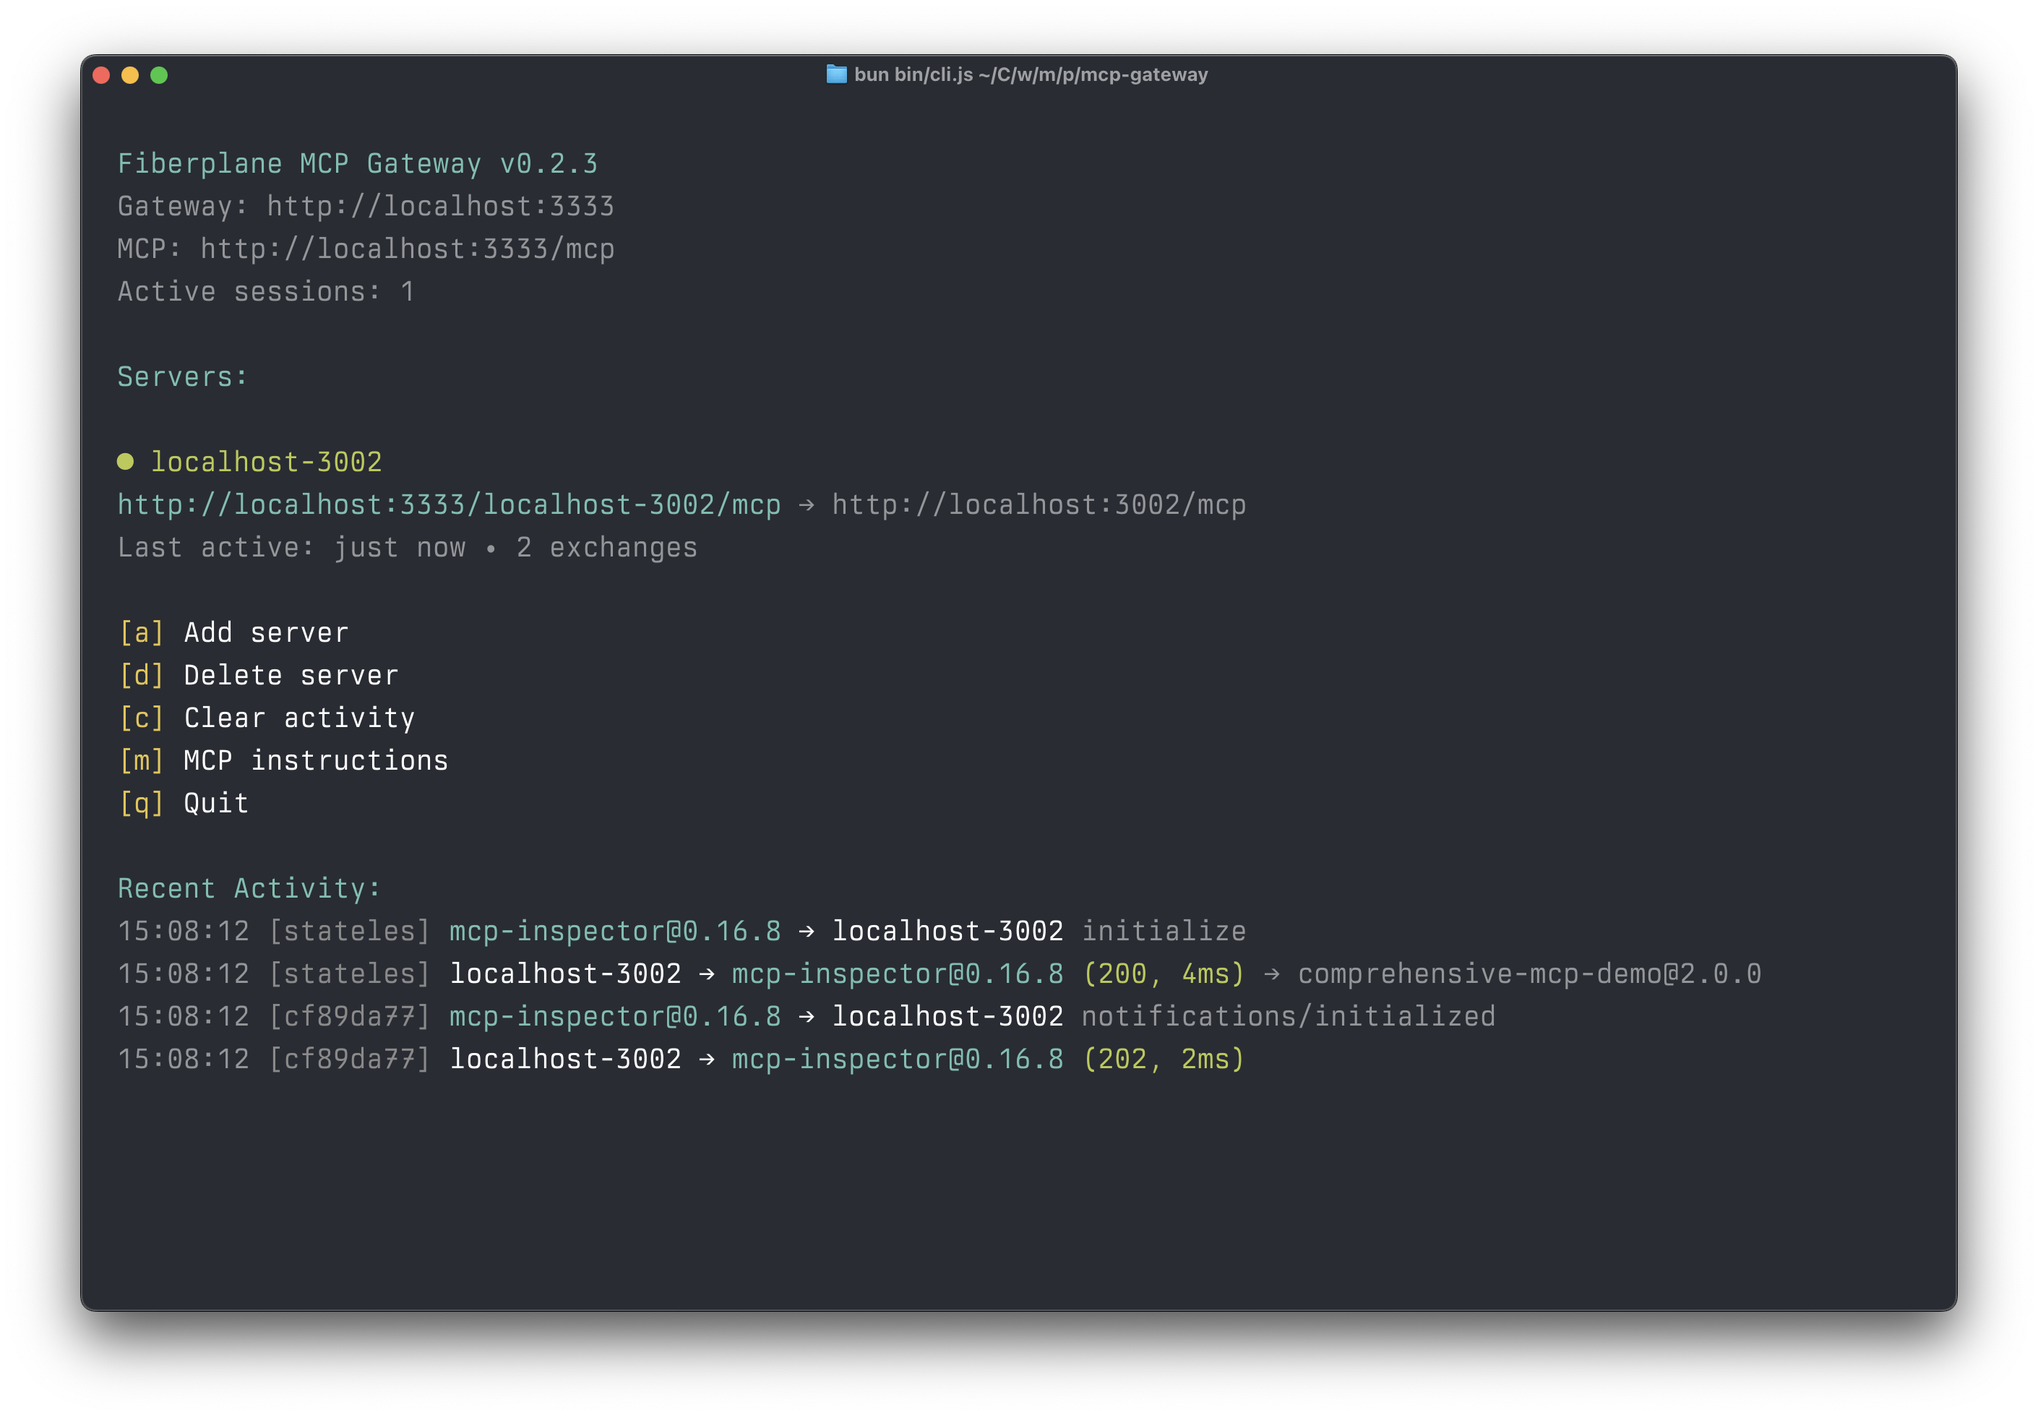
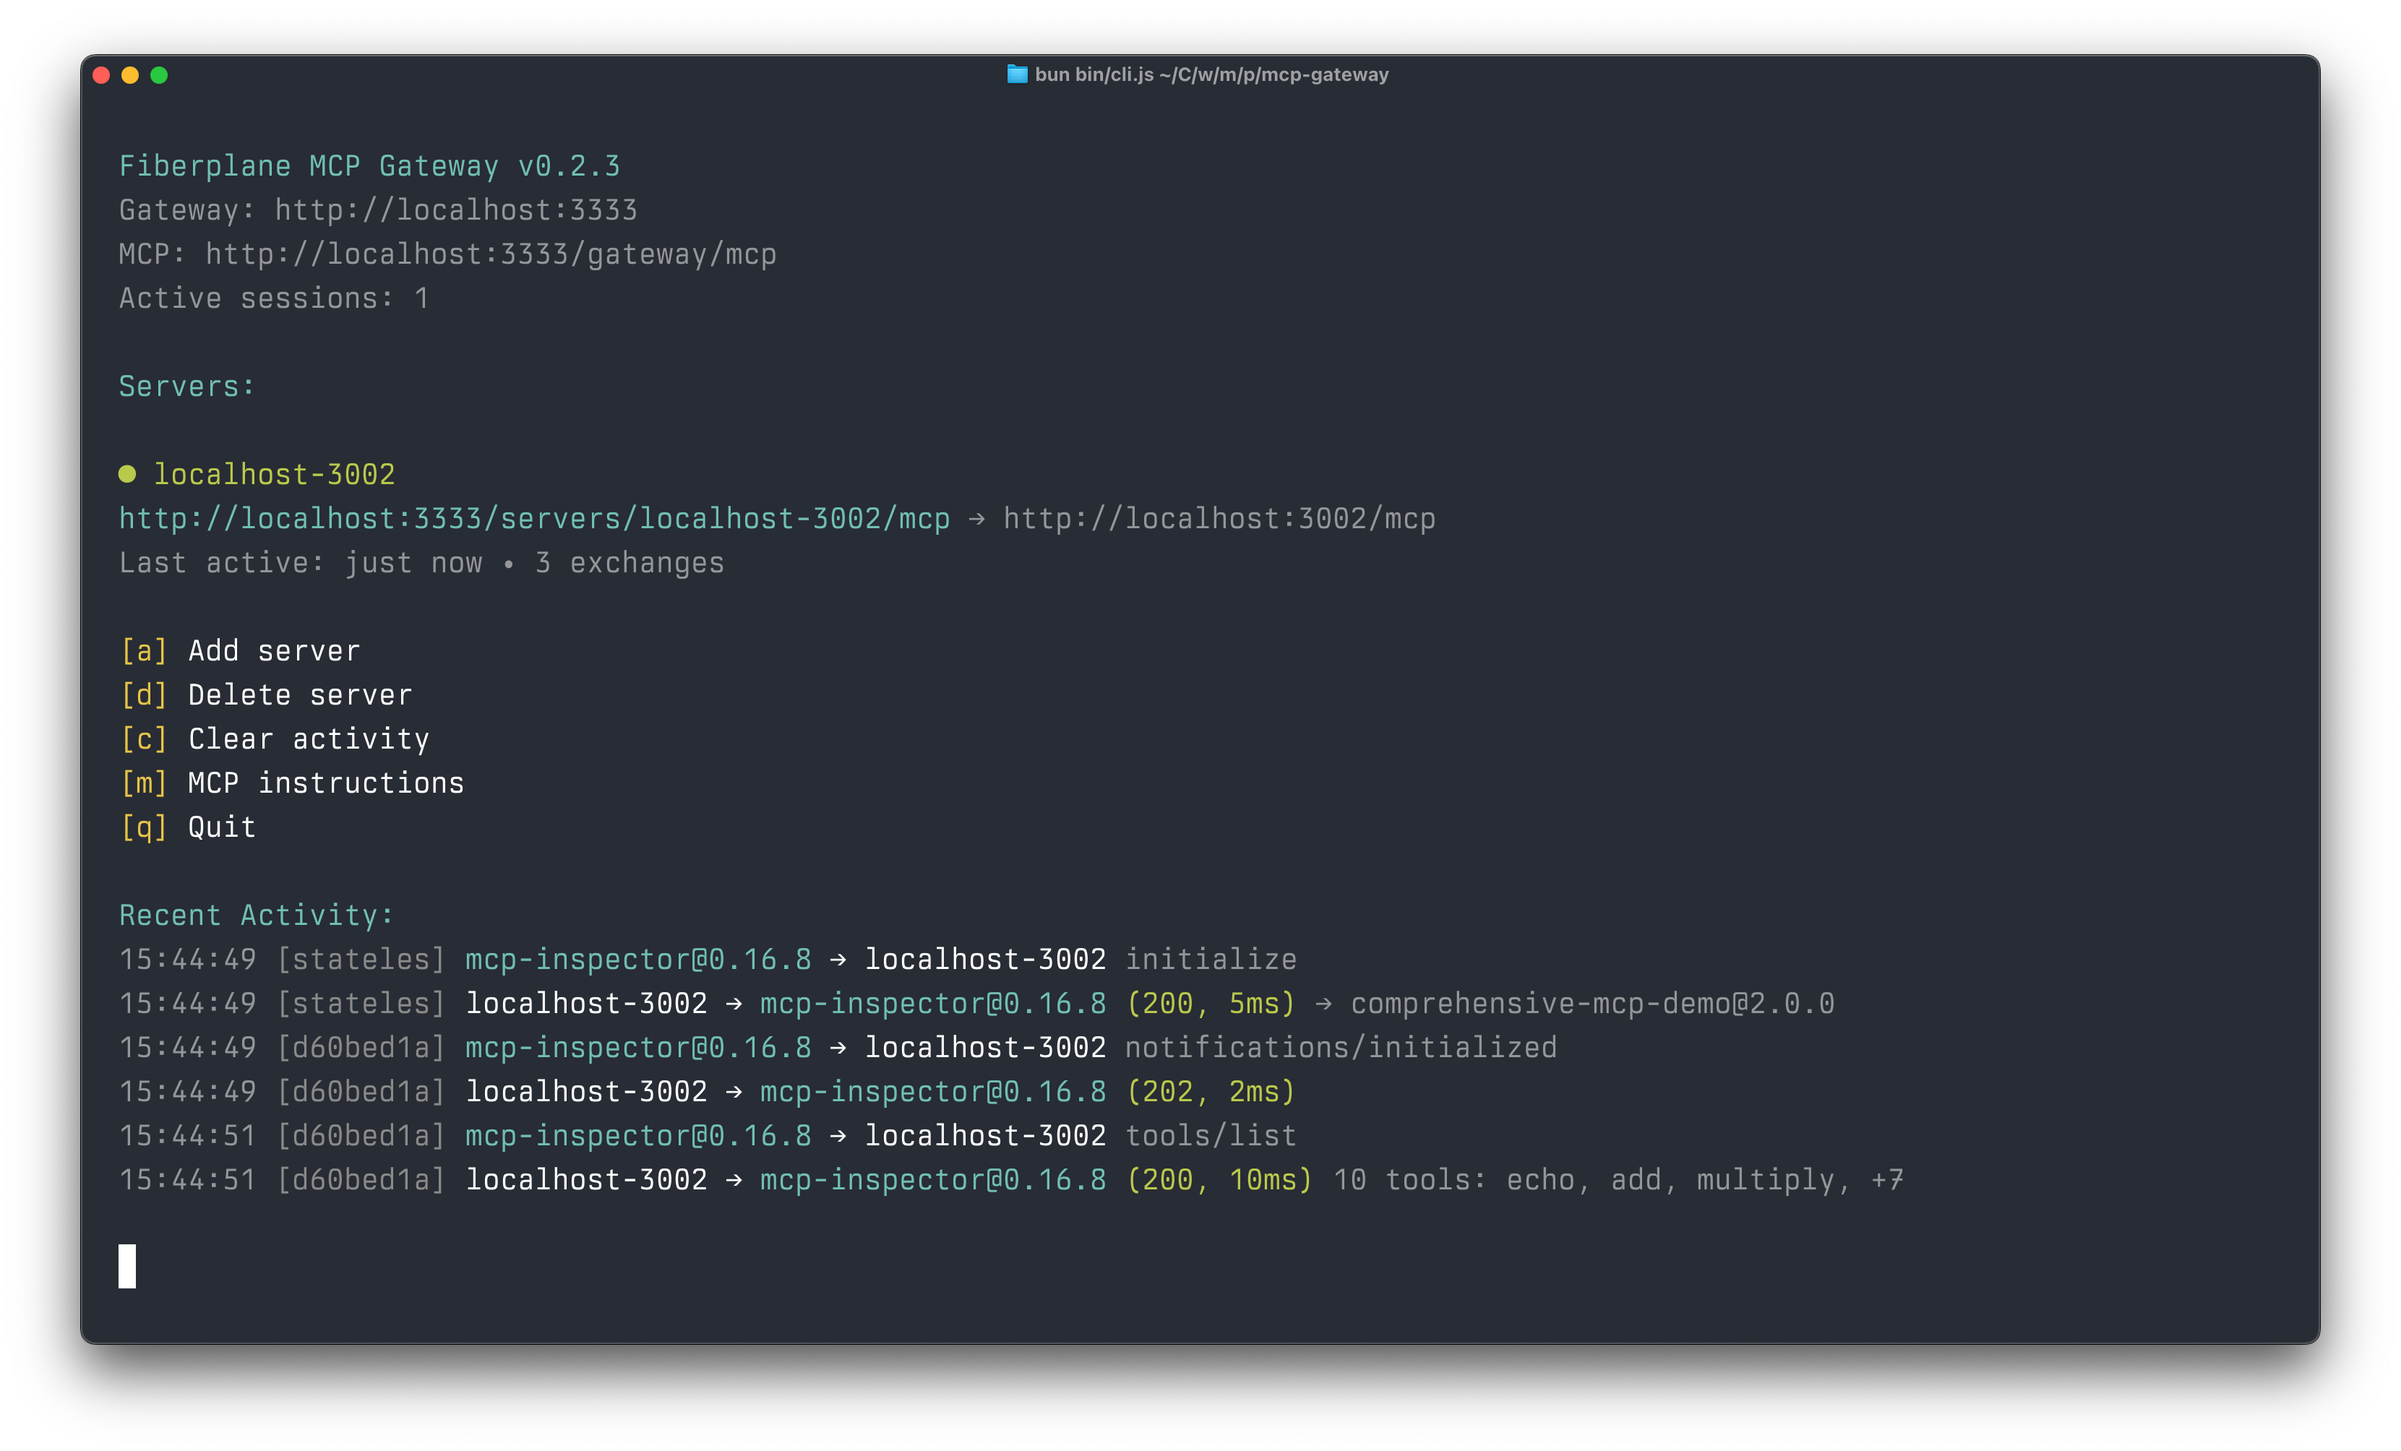
prefixingggg

diff --git a/packages/mcp-gateway/src/server.ts b/packages/mcp-gateway/src/server.ts
@@ -233,9 +233,9 @@ export async function createApp(
     });
   });
 
-  // Single dynamic proxy route with proper validation
+  // Canonical proxy route for server connections
   app.post(
-    "/:server/mcp",
+    "/servers/:server/mcp",
     sValidator("param", serverParamSchema),
     sValidator("json", jsonRpcRequestSchema),
     sValidator("header", sessionHeaderSchema),
@@ -422,8 +422,201 @@ export async function createApp(
     },
   );
 
-  // Mount MCP server for gateway management tools
-  app.route("/", createMcpApp(registry, storage));
+  // Short alias for server proxy
+  app.post(
+    "/s/:server/mcp",
+    sValidator("param", serverParamSchema),
+    sValidator("json", jsonRpcRequestSchema),
+    sValidator("header", sessionHeaderSchema),
+    async (c) => {
+      const startTime = Date.now();
+
+      // Get validated data
+      const { server: serverName } = c.req.valid("param");
+      const jsonRpcRequest = c.req.valid("json");
+
+      // Find server in registry
+      const server = getServer(registry, serverName);
+      if (!server) {
+        return c.notFound();
+      }
+
+      // Extract session ID from headers
+      const validatedHeaders = c.req.valid("header");
+      const sessionId = extractSessionId(validatedHeaders);
+
+      // Capture request immediately (before forwarding)
+      const requestRecord = createRequestCaptureRecord(
+        server.name,
+        sessionId,
+        jsonRpcRequest,
+      );
+      const requestCaptureFilename = await appendCapture(
+        storage,
+        requestRecord,
+      );
+
+      // Log incoming request from client
+      logRequest(server, sessionId, jsonRpcRequest);
+
+      let response: JsonRpcResponse;
+      let httpStatus = 200;
+
+      try {
+        // Handle initialize method - store client info
+        handleInitializeClientInfo(sessionId, jsonRpcRequest);
+
+        // Forward request to target MCP server using Hono proxy helper
+        const proxyHeaders = buildProxyHeaders(c, server);
+
+        const targetResponse = await proxy(server.url, {
+          method: "POST",
+          headers: proxyHeaders,
+          body: JSON.stringify(jsonRpcRequest),
+        });
+
+        httpStatus = targetResponse.status;
+
+        // Check if response is SSE stream
+        const contentType =
+          targetResponse.headers.get("content-type")?.toLowerCase() || "";
+        const isSSE = contentType.startsWith("text/event-stream");
+
+        if (isSSE) {
+          // Handle SSE streaming response
+
+          // Update server activity immediately for SSE
+          await updateServerActivity(storage, registry, server);
+
+          if (!targetResponse.body) {
+            throw new Error("SSE response has no body");
+          }
+
+          // Create two streams from the response body
+          const [streamForClient, streamForCapture] = targetResponse.body.tee();
+
+          // Start background capture processing
+          processSSECapture(
+            streamForCapture,
+            storage,
+            server,
+            sessionId,
+            jsonRpcRequest.method,
+            jsonRpcRequest.id,
+          );
+
+          // Return streaming response to client
+          return new Response(streamForClient, {
+            status: httpStatus,
+            headers: targetResponse.headers,
+          });
+        }
+
+        // Handle regular JSON response (existing logic)
+        // Read body as text first to avoid consuming the stream twice
+        const responseText = await targetResponse.text();
+        let responseBody: unknown;
+        try {
+          responseBody = JSON.parse(responseText);
+        } catch {
+          // If not valid JSON, use as-is
+          responseBody = responseText;
+        }
+        response = responseBody as JsonRpcResponse;
+        const duration = Date.now() - startTime;
+
+        // Capture response (only if request expected one - has id)
+        if (jsonRpcRequest.id != null) {
+          const responseRecord = createResponseCaptureRecord(
+            server.name,
+            sessionId,
+            response,
+            httpStatus,
+            jsonRpcRequest.method,
+          );
+          await appendCapture(storage, responseRecord);
+        }
+
+        // Handle initialize → session transition
+        await handleSessionTransition(
+          storage,
+          server,
+          targetResponse,
+          sessionId,
+          jsonRpcRequest,
+          requestCaptureFilename,
+        );
+
+        // Log response
+        logResponse(
+          server,
+          sessionId,
+          jsonRpcRequest.method,
+          httpStatus,
+          duration,
+          response,
+        );
+
+        // Update server activity
+        await updateServerActivity(storage, registry, server);
+
+        // Create new response with the same data and headers
+        const responseHeaders = new Headers(targetResponse.headers);
+        return new Response(responseText, {
+          status: httpStatus,
+          headers: responseHeaders,
+        });
+      } catch (error) {
+        const duration = Date.now() - startTime;
+
+        // Create error response
+        const errorResponse: JsonRpcResponse = {
+          jsonrpc: "2.0",
+          id: jsonRpcRequest.id ?? null,
+          error: {
+            code: -32603,
+            message: String(error),
+          },
+        };
+
+        // Log error response
+        logResponse(
+          server,
+          sessionId,
+          jsonRpcRequest.method,
+          httpStatus,
+          duration,
+          errorResponse,
+        );
+
+        // Capture error
+        await captureError(
+          storage,
+          server.name,
+          sessionId,
+          jsonRpcRequest,
+          {
+            code: -32603,
+            message: String(error),
+          },
+          httpStatus,
+          duration,
+        );
+
+        return new Response(JSON.stringify(errorResponse), {
+          status: httpStatus,
+          headers: { "Content-Type": "application/json" },
+        });
+      }
+    },
+  );
+
+  // Mount gateway MCP app at canonical path
+  app.route("/gateway", createMcpApp(registry, storage));
+
+  // Short alias for gateway
+  app.route("/g", createMcpApp(registry, storage));
+
   return { app, registry };
 }
 

diff --git a/packages/mcp-gateway/tests/proxy.test.ts b/packages/mcp-gateway/tests/proxy.test.ts
@@ -195,8 +195,8 @@ describe("Proxy Integration Tests", () => {
   });
 
   describe("Proxy Routing", () => {
-    it("should route requests to server1", async () => {
-      const gatewayUrl = `http://localhost:${gateway.port}/server1/mcp`;
+    it("should route requests to server1 (canonical)", async () => {
+      const gatewayUrl = `http://localhost:${gateway.port}/servers/server1/mcp`;
 
       const response = await makeJsonRpcRequest(gatewayUrl, "tools/call", {
         name: "echo",
@@ -209,8 +209,8 @@ describe("Proxy Integration Tests", () => {
       });
     });
 
-    it("should route requests to server2", async () => {
-      const gatewayUrl = `http://localhost:${gateway.port}/server2/mcp`;
+    it("should route requests to server2 (canonical)", async () => {
+      const gatewayUrl = `http://localhost:${gateway.port}/servers/server2/mcp`;
 
       const response = await makeJsonRpcRequest(gatewayUrl, "tools/call", {
         name: "add",
@@ -223,8 +223,22 @@ describe("Proxy Integration Tests", () => {
       });
     });
 
+    it("should route requests via short alias", async () => {
+      const gatewayUrl = `http://localhost:${gateway.port}/s/server1/mcp`;
+
+      const response = await makeJsonRpcRequest(gatewayUrl, "tools/call", {
+        name: "echo",
+        arguments: { message: "hello via alias" },
+      });
+
+      expect(response.error).toBeUndefined();
+      expect(response.result).toEqual({
+        content: [{ type: "text", text: "hello via alias" }],
+      });
+    });
+
     it("should return 404 for unknown server", async () => {
-      const gatewayUrl = `http://localhost:${gateway.port}/unknown-server/mcp`;
+      const gatewayUrl = `http://localhost:${gateway.port}/servers/unknown-server/mcp`;
 
       try {
         await makeJsonRpcRequest(gatewayUrl, "tools/call", {
@@ -240,7 +254,7 @@ describe("Proxy Integration Tests", () => {
 
   describe("Session Handling", () => {
     it("should handle requests with session ID", async () => {
-      const gatewayUrl = `http://localhost:${gateway.port}/server1/mcp`;
+      const gatewayUrl = `http://localhost:${gateway.port}/servers/server1/mcp`;
       const sessionId = "test-session-123";
 
       const response = await makeJsonRpcRequest(
@@ -260,7 +274,7 @@ describe("Proxy Integration Tests", () => {
     });
 
     it("should handle stateless requests", async () => {
-      const gatewayUrl = `http://localhost:${gateway.port}/server1/mcp`;
+      const gatewayUrl = `http://localhost:${gateway.port}/servers/server1/mcp`;
 
       const response = await makeJsonRpcRequest(gatewayUrl, "tools/call", {
         name: "echo",
@@ -276,7 +290,7 @@ describe("Proxy Integration Tests", () => {
 
   describe("Capture Storage", () => {
     it("should create capture files", async () => {
-      const gatewayUrl = `http://localhost:${gateway.port}/server1/mcp`;
+      const gatewayUrl = `http://localhost:${gateway.port}/servers/server1/mcp`;
       const sessionId = "capture-test-session";
 
       await makeJsonRpcRequest(
@@ -298,7 +312,7 @@ describe("Proxy Integration Tests", () => {
     });
 
     it("should capture request and response data", async () => {
-      const gatewayUrl = `http://localhost:${gateway.port}/server2/mcp`;
+      const gatewayUrl = `http://localhost:${gateway.port}/servers/server2/mcp`;
       const sessionId = "data-capture-test";
 
       await makeJsonRpcRequest(

diff --git a/packages/mcp-gateway/src/tui/components/menu.ts b/packages/mcp-gateway/src/tui/components/menu.ts
@@ -38,7 +38,7 @@ export function renderMenu(registry: Registry, logs: LogEntry[]): string {
     `${CYAN}Fiberplane MCP Gateway v${packageJson.version}${RESET_COLOR}\n`,
   );
   output.push(`${DIM}Gateway: http://localhost:3333${RESET_COLOR}\n`);
-  output.push(`${DIM}MCP: http://localhost:3333/mcp${RESET_COLOR}\n`);
+  output.push(`${DIM}MCP: http://localhost:3333/gateway/mcp${RESET_COLOR}\n`);
   if (activeSessions.length > 0) {
     output.push(
       `${DIM}Active sessions: ${activeSessions.length}${RESET_COLOR}\n`,
@@ -53,7 +53,7 @@ export function renderMenu(registry: Registry, logs: LogEntry[]): string {
     for (const server of registry.servers) {
       const activity = formatRelativeTime(server.lastActivity);
       const encodedName = encodeURIComponent(server.name);
-      const proxyUrl = `http://localhost:3333/${encodedName}/mcp`;
+      const proxyUrl = `http://localhost:3333/servers/${encodedName}/mcp`;
       const healthIndicator = getHealthIndicator(server.health);
       const nameColor = getHealthColor(server.health);
       output.push("\n");

diff --git a/packages/mcp-gateway/src/tui/components/modal.ts b/packages/mcp-gateway/src/tui/components/modal.ts
@@ -63,7 +63,10 @@ function renderMcpInstructions(): string {
   output.push(
     `${GREEN}This MCP Gateway is also an MCP server.${RESET_COLOR}\n`,
   );
-  output.push(`${YELLOW}Endpoint:${RESET_COLOR} http://localhost:3333/mcp\n`);
+  output.push(
+    `${YELLOW}Endpoint:${RESET_COLOR} http://localhost:3333/gateway/mcp\n`,
+  );
+  output.push(`${DIM}Short alias: http://localhost:3333/g/mcp${RESET_COLOR}\n`);
   output.push(
     `${DIM}Connect it to your agent (MCP Client) and use it to manage${RESET_COLOR}\n`,
   );
@@ -94,7 +97,7 @@ function renderMcpInstructions(): string {
   output.push(`${DIM}  "mcpServers": {${RESET_COLOR}\n`);
   output.push(`${DIM}    "mcp-gateway": {${RESET_COLOR}\n`);
   output.push(
-    `${DIM}      "url": ${RESET_COLOR}${YELLOW}"http://localhost:3333/mcp"${RESET_COLOR}\n`,
+    `${DIM}      "url": ${RESET_COLOR}${YELLOW}"http://localhost:3333/gateway/mcp"${RESET_COLOR}\n`,
   );
   output.push(`${DIM}    }${RESET_COLOR}\n`);
   output.push(`${DIM}  }${RESET_COLOR}\n`);

diff --git a/packages/mcp-gateway/tests/sse.test.ts b/packages/mcp-gateway/tests/sse.test.ts
@@ -120,7 +120,7 @@ describe("SSE Integration Tests", () => {
   });
 
   test("should stream SSE events through gateway", async () => {
-    const gatewayUrl = `http://localhost:${gateway.port}/sse-server/mcp`;
+    const gatewayUrl = `http://localhost:${gateway.port}/servers/sse-server/mcp`;
 
     const response = await fetch(gatewayUrl, {
       method: "POST",
@@ -162,7 +162,7 @@ describe("SSE Integration Tests", () => {
   });
 
   test("should capture SSE events with JSON-RPC content", async () => {
-    const gatewayUrl = `http://localhost:${gateway.port}/sse-server/mcp`;
+    const gatewayUrl = `http://localhost:${gateway.port}/servers/sse-server/mcp`;
     const sessionId = "sse-capture-test";
 
     const response = await fetch(gatewayUrl, {

diff --git a/packages/mcp-gateway/src/mcp-server.ts b/packages/mcp-gateway/src/mcp-server.ts
@@ -103,7 +103,8 @@ export function createMcpServer(
 
 /**
  * Creates a Hono app that serves the MCP server over HTTP with SSE support.
- * The server is mounted at the /mcp endpoint and includes CORS support.
+ * The server is mounted at /mcp endpoint. This app is meant to be mounted at
+ * /gateway (canonical) or /g (short alias) in the main server.
  *
  * @param registry - The gateway's server registry
  * @param storageDir - Directory where captures are stored

diff --git a/packages/mcp-gateway/README.md b/packages/mcp-gateway/README.md
@@ -16,7 +16,7 @@ Runs on port 3333 with an interactive TUI for server management. Configuration p
 
 **Interactive (press `a` in TUI):**
 - Enter server name, URL, and optional headers
-- Server immediately available at `http://localhost:3333/:serverName/mcp`
+- Server immediately available at `http://localhost:3333/servers/:serverName/mcp`
 
 **Configuration file (`~/.mcp-gateway/mcp.json`):**
 
@@ -44,13 +44,15 @@ Runs on port 3333 with an interactive TUI for server management. Configuration p
 
 ## Features
 
-**Request routing**: Route requests to different MCP servers by name (e.g., `/weather/mcp`, `/database/mcp`)
+**Request routing**: Route requests to different MCP servers by name (e.g., `/servers/weather/mcp`, `/servers/database/mcp`)
 
 **Traffic capture**: All requests/responses logged to `~/.mcp-gateway/captures/:serverName/:sessionId.jsonl` with timing metrics and error states
 
 **Health monitoring**: Periodic health checks with status indicators in TUI
 
-**MCP tools**: Gateway exposes its own MCP server at `/mcp` with tools for server management (`add_server`, `remove_server`, `list_servers`) and traffic analysis (`search_records`)
+**MCP tools**: Gateway exposes its own MCP server at `/gateway/mcp` with tools for server management (`add_server`, `remove_server`, `list_servers`) and traffic analysis (`search_records`)
+
+**Short aliases**: For convenience, use `/s/:server/mcp` for servers and `/g/mcp` for gateway tools
 
 ## CLI Options
 
